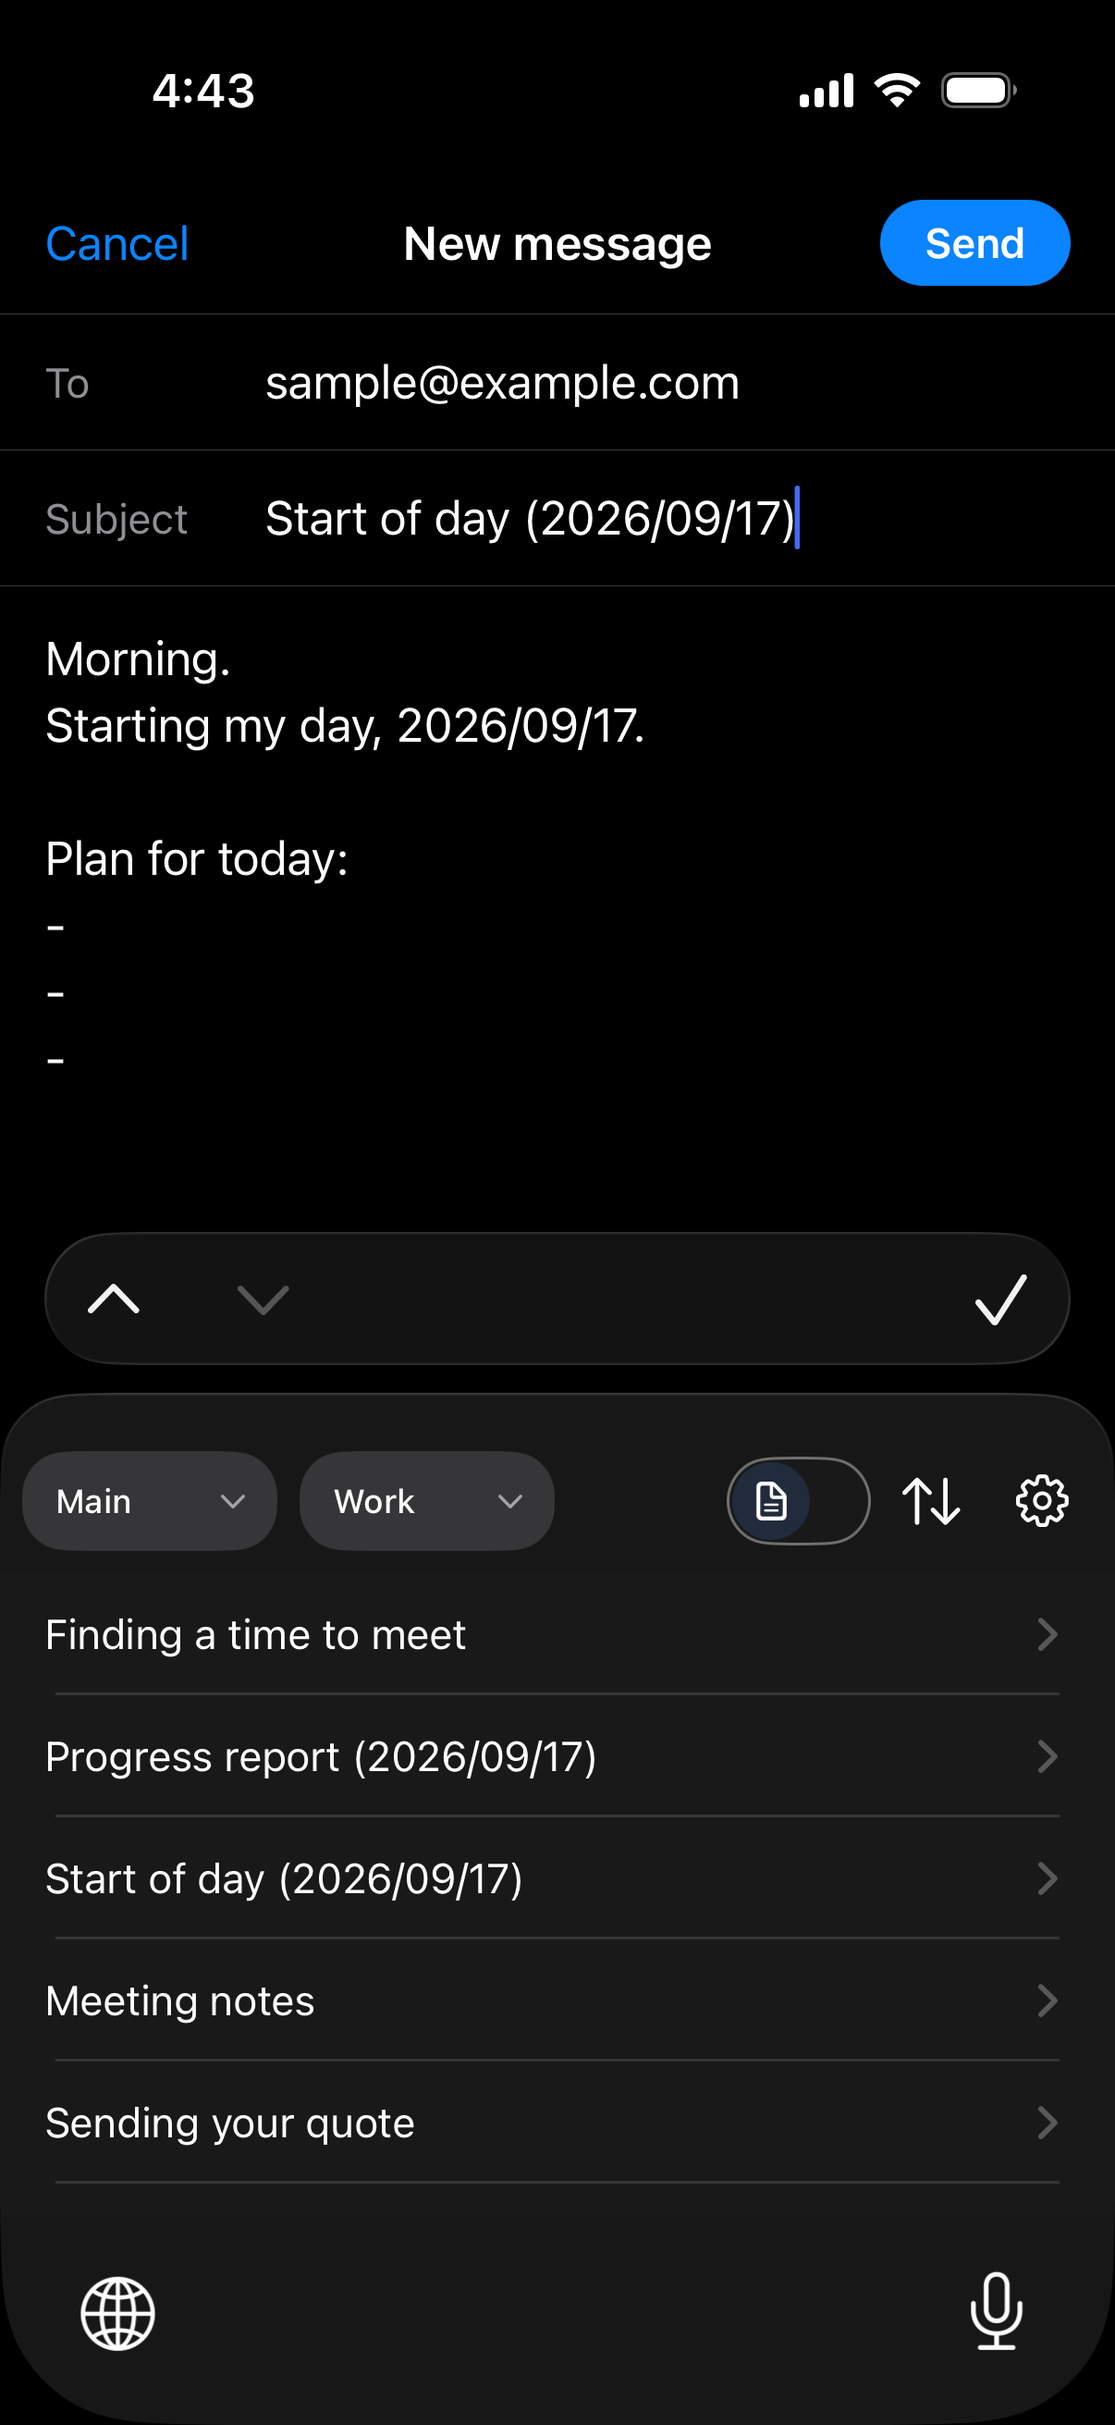
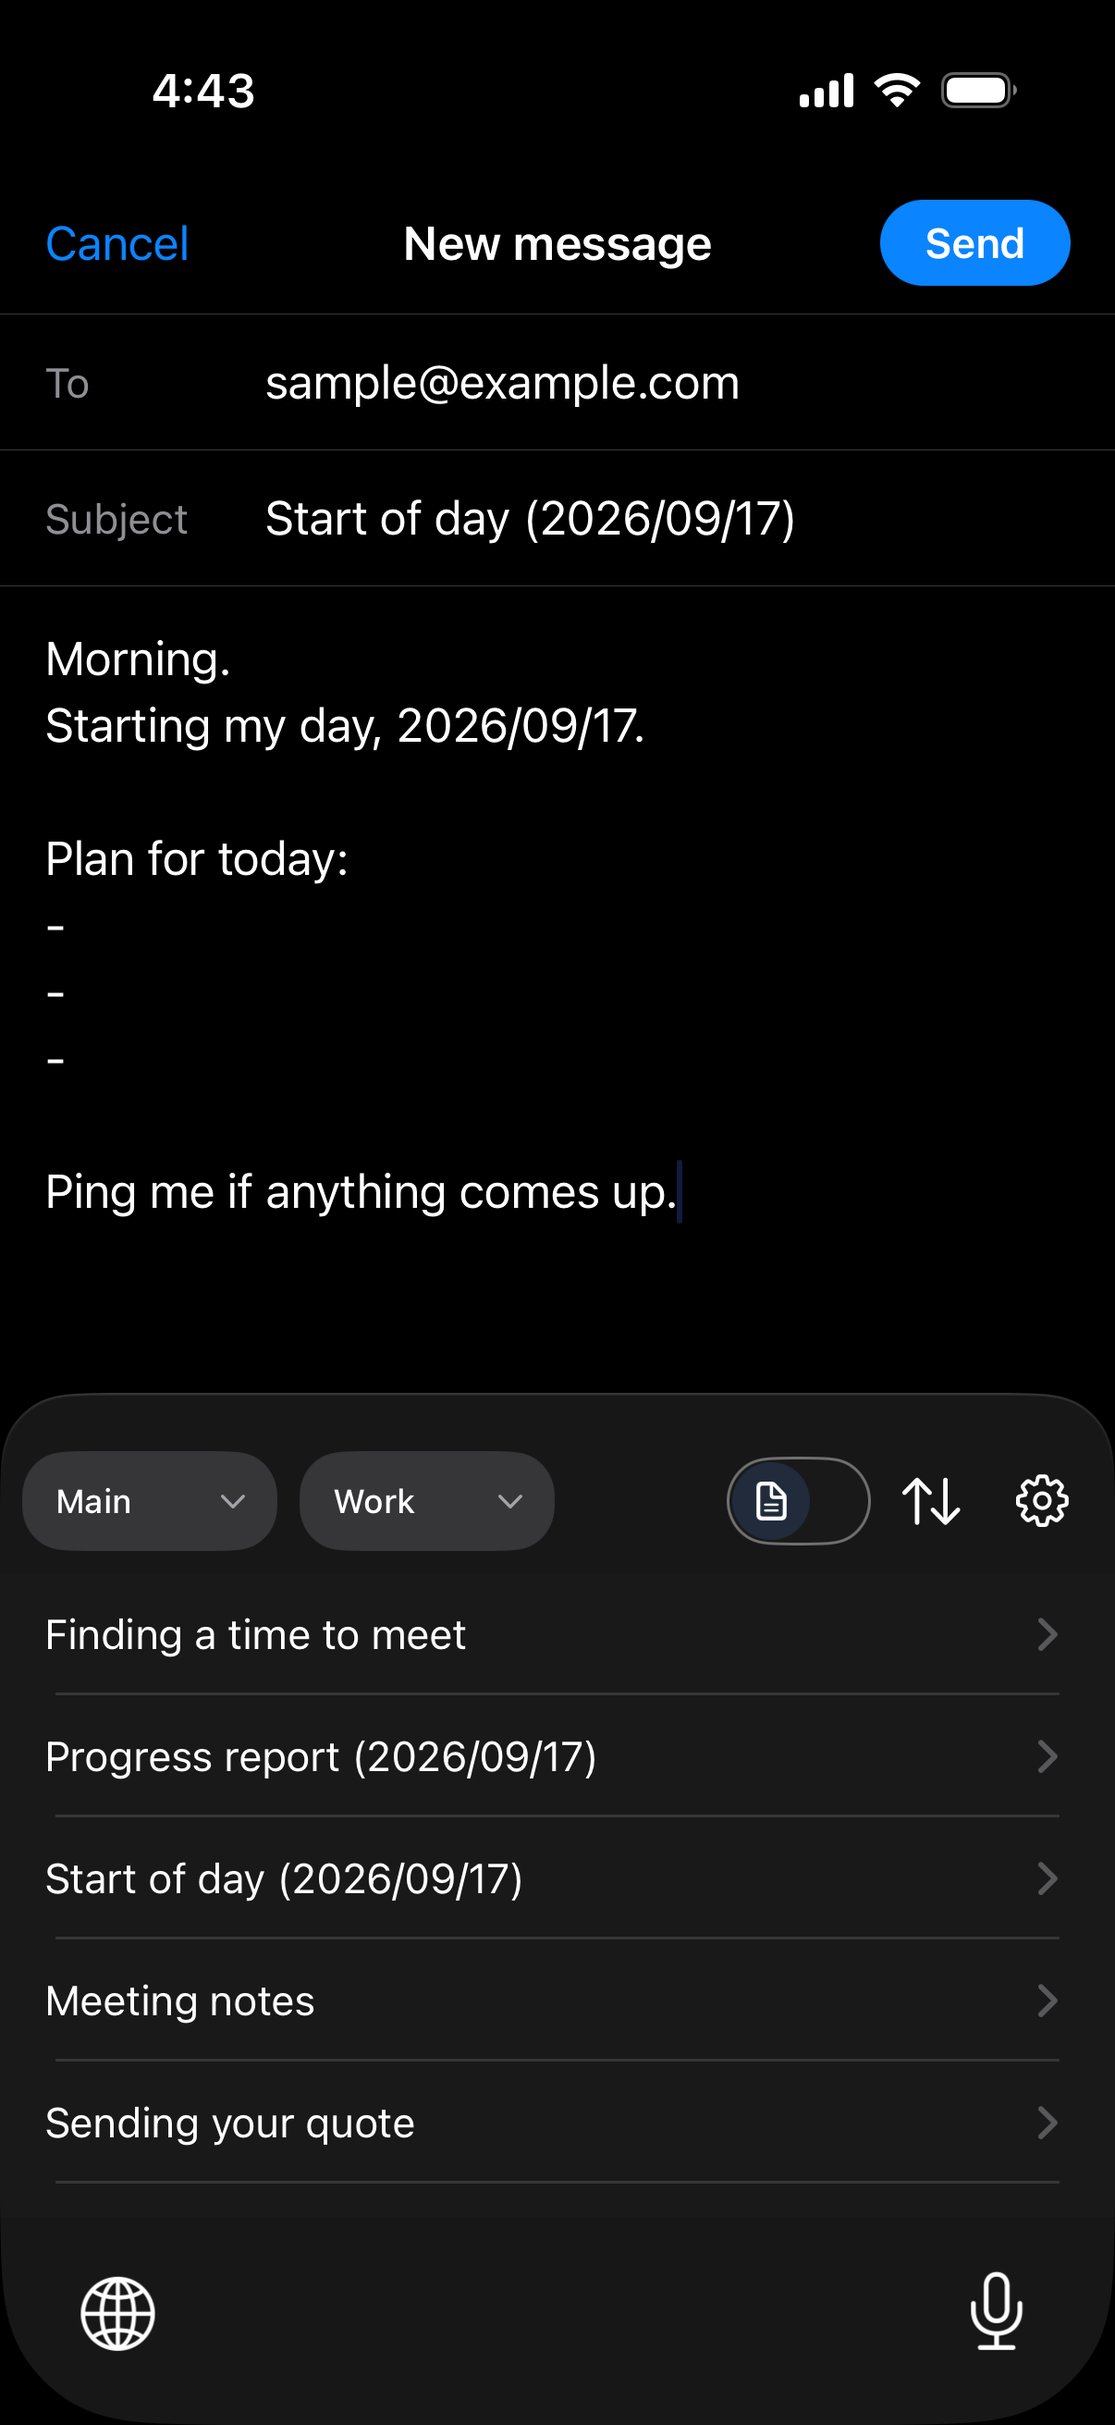
撮影用ホストをWebViewで開く開発者向け画面を足し、02-scenesを撮り直す
撮影用ホストをSafariで開くと、キーボードの上にフォーム用のアクセサリバー（∧ ∨ 完了）が
必ず出る。ページ側からは消せず、textarea を contenteditable に変えても出る（実測）。
ブラウザの部品が掲載画像に写り込んでいた。

WKWebViewを自前で持てば消せる。react-native-webview の hideKeyboardAccessoryView が
WKContentView の inputAccessoryView を差し替えるためで、同パッケージは既に依存にあり
（利用規約・プライバシーポリシー画面で使用中）、ネイティブの再ビルドも要らなかった。

- app/capture-host.tsx を追加。ヘッダーもインセットも出さずWebViewだけを全面に置く。
  ClipTapのUIが1pxでも写るとホストがClipTapだと分かり、掲載画像として使えないため。
  抜けるための透明な当たり判定を状態バーの帯に重ねてある
- 設定 > Developer Menu に Capture Host を追加（__DEV__ 配下）
- 本番バンドルからの除外はしない。seed.ts と違って大きなデータを抱えず、
  __DEV__ の外では何も描画せず、到達経路も開発者メニューだけのため
- i18nUsage.test.ts の許可リストへ capture-host.tsx を追加。DeveloperMenu.tsx と
  同じく開発者向けで、本番ビルドでは到達しない

02-scenes の6枚（メール・投稿・アシスタント × ja/en）をこの経路で撮り直し、
アクセサリバーの写り込みを無くした。メールは業務開始報告にしてある。

diff --git a/apps/mobile/app/capture-host.tsx b/apps/mobile/app/capture-host.tsx
@@ -1,0 +1,84 @@
+/**
+ * @module CaptureHostScreen
+ * @description 撮影用ホスト画面（開発モード限定）
+ *
+ * ストア掲載画像で「他のアプリの入力欄に ClipTap のキーボードから入力している」場面を撮るため、
+ * store/screen/host/ の無印の入力欄をWebViewで開くだけの画面。
+ *
+ * Safariで同じHTMLを開くとキーボードの上にフォーム用のアクセサリバー（∧ ∨ 完了）が必ず出る。
+ * あれはページ側からは消せないが、WKWebViewを自前で持てば `hideKeyboardAccessoryView` が
+ * WKContentView の inputAccessoryView を差し替えて消してくれる。それがこの画面の存在理由。
+ *
+ * 画面としての中身は無い。ヘッダーもインセットも出さず、WebViewだけを全面に置く。
+ * ClipTapのUIが1pxでも写るとホストがClipTapだと分かってしまい、掲載画像として使えないため。
+ *
+ * 本番バンドルからの除外はしていない。開発用シード（seed.ts）と違って
+ * 大きなデータを抱えず、__DEV__ の外では何も描画しないため。
+ * 到達経路も設定 > Developer Menu だけで、そこ自体が __DEV__ 配下にある。
+ *
+ * @see store/screen/host/README.md - ホストの方針と撮影手順
+ * @see src/components/settings/DeveloperMenu.tsx - この画面への入口
+ */
+
+import { StyleSheet, Pressable } from 'react-native';
+import { router } from 'expo-router';
+import { WebView } from 'react-native-webview';
+import { ScreenContainer } from '@components/common/ScreenContainer';
+
+/**
+ * 撮影用ホストの配信元
+ *
+ * `node store/screen/host/serve.mjs` で起こす。シミュレータはMacのネットワークを
+ * そのまま使うので localhost で届く（Info.plist の NSAllowsLocalNetworking が true）。
+ * 実機で撮るときはMacのLAN IPへ書き換える。
+ */
+const HOST_URL = 'http://localhost:4599/';
+
+export default function CaptureHostScreen() {
+  /* 開発モードでのみ使う画面。到達経路は Developer Menu だけだが、念のため何も描画しない */
+  if (!__DEV__) {
+    return null;
+  }
+
+  return (
+    /* ヘッダーを持たず、セーフエリアも確保しない。状態バーの下の余白はホスト側のCSSが持つ。
+       ScreenContainer は必ずヘッダーを描画するため、空の要素を渡して打ち消している */
+    <ScreenContainer customHeader={<></>} edges={[]}>
+      <WebView
+        source={{ uri: HOST_URL }}
+        style={styles.webview}
+        /* この画面の目的。キーボードの上に出るSafariのアクセサリバーを消す */
+        hideKeyboardAccessoryView={true}
+        javaScriptEnabled={true}
+        domStorageEnabled={true}
+        /* 撮り直しのたびに古い画面が出ると気付けない */
+        cacheEnabled={false}
+        /* 入力欄をタップした瞬間にキーボードを出す（既定はユーザー操作を要求する） */
+        keyboardDisplayRequiresUserAction={false}
+        /* 本文が伸びてもWebView側では弾ませない。構図が撮影のたびに変わるため */
+        bounces={false}
+      />
+      {/* 閉じるための透明な当たり判定。状態バーの帯に重ねてあるので撮影画像には写らない。
+          ヘッダーが無いぶん、ここが唯一の戻る手段になる */}
+      <Pressable
+        style={styles.exit}
+        onPress={() => router.back()}
+        accessibilityLabel="Close capture host"
+      />
+    </ScreenContainer>
+  );
+}
+
+const styles = StyleSheet.create({
+  webview: {
+    flex: 1,
+  },
+  /** 状態バーの帯に重ねる透明な閉じる領域 */
+  exit: {
+    position: 'absolute',
+    top: 0,
+    left: 0,
+    width: 88,
+    height: 54,
+  },
+});

diff --git a/apps/mobile/src/components/settings/DeveloperMenu.tsx b/apps/mobile/src/components/settings/DeveloperMenu.tsx
@@ -2,7 +2,7 @@
  * 開発者メニュー
  *
  * 開発モード（__DEV__）でのみ表示されるデバッグ機能メニュー。
- * サブスクリプション状態の上書き・広告の非表示・DBリセットの3機能を提供。
+ * サブスクリプション状態の上書き・広告の非表示・DBリセット・撮影用ホストの4機能を提供。
  *
  * 開発者専用メニューのため、表示文言は英語固定とし i18n キーを持たない。
  * app/settings/index.tsx の __DEV__ 判定配下でのみ描画されるため、
@@ -18,6 +18,7 @@ interface DeveloperMenuProps {
   onSubscriptionToggle: () => void;
   onAdsToggle: () => void;
   onResetDatabase: () => void;
+  onOpenCaptureHost: () => void;
 }
 
 interface MenuItemProps {
@@ -63,6 +64,7 @@ export function DeveloperMenu({
   onSubscriptionToggle,
   onAdsToggle,
   onResetDatabase,
+  onOpenCaptureHost,
 }: DeveloperMenuProps) {
   const { colors, responsiveFontSizes, responsiveLineHeights } = useTheme();
 
@@ -82,6 +84,14 @@ export function DeveloperMenu({
       title: 'Ads Override',
       description: 'Show or hide banner and App Open ads',
       onPress: onAdsToggle,
+    },
+    {
+      id: 'capture-host',
+      icon: 'camera-outline' as const,
+      iconColor: colors.text,
+      title: 'Capture Host',
+      description: 'Open the store screenshot host in a WebView',
+      onPress: onOpenCaptureHost,
     },
     {
       id: 'reset',

diff --git a/packages/shared/tests/i18nUsage.test.ts b/packages/shared/tests/i18nUsage.test.ts
@@ -131,12 +131,13 @@ const ALLOWED_LITERALS = new Set(['R', 'G', 'B', 'Pro', 'Free', 'ClipTap Web']);
  * 表示文言のハードコードを許可するファイル
  *
  * @remarks
- * - DeveloperMenu.tsx / useDevMenu.ts: `__DEV__` のときだけ描画される開発者向けメニュー。
- *   本番ビルドでは到達しないため利用者向け文言ではない
+ * - DeveloperMenu.tsx / useDevMenu.ts / capture-host.tsx: `__DEV__` のときだけ描画される
+ *   開発者向けの画面とメニュー。本番ビルドでは到達しないため利用者向け文言ではない
  * - MobileFileShareAdapter.ts: 共有シートのタイトルは docs/機能仕様書.md §8.13 により
  *   UI言語にかかわらず日本語固定と定められている
  */
 const ALLOWED_FILES = new Set([
+  'apps/mobile/app/capture-host.tsx',
   'apps/mobile/src/components/settings/DeveloperMenu.tsx',
   'apps/mobile/src/hooks/screens/useDevMenu.ts',
   'apps/mobile/src/adapters/MobileFileShareAdapter.ts',

diff --git a/apps/mobile/src/hooks/screens/useDevMenu.ts b/apps/mobile/src/hooks/screens/useDevMenu.ts
@@ -13,6 +13,7 @@
 
 import { useCallback } from 'react';
 import { Alert } from 'react-native';
+import { router } from 'expo-router';
 import { Logger, useSharedSubscription } from '@cliptap/shared';
 import { database } from '@database/database';
 import { showConfirm, showAlert, showErrorAlert } from '@utils/alerts';
@@ -27,6 +28,8 @@ export interface UseDevMenuReturn {
   handleDevAdsToggle: () => void;
   /** データベースリセット */
   handleResetDatabase: () => Promise<void>;
+  /** 撮影用ホストを開く */
+  handleOpenCaptureHost: () => void;
 }
 
 /**
@@ -129,9 +132,15 @@ export function useDevMenu(): UseDevMenuReturn {
     );
   }, []);
 
+  /* ストア掲載画像の撮影に使うホストを開く（app/capture-host.tsx を参照） */
+  const handleOpenCaptureHost = useCallback(() => {
+    router.push('/capture-host');
+  }, []);
+
   return {
     handleDevSubscriptionToggle,
     handleDevAdsToggle,
     handleResetDatabase,
+    handleOpenCaptureHost,
   };
 }

diff --git a/apps/mobile/app/settings/index.tsx b/apps/mobile/app/settings/index.tsx
@@ -61,6 +61,7 @@ export default function SettingsScreen() {
     handleDevSubscriptionToggle,
     handleDevAdsToggle,
     handleResetDatabase,
+    handleOpenCaptureHost,
   } = useSettingsScreen();
 
   /* 設定画面 */
@@ -128,6 +129,7 @@ export default function SettingsScreen() {
             onSubscriptionToggle={handleDevSubscriptionToggle}
             onAdsToggle={handleDevAdsToggle}
             onResetDatabase={handleResetDatabase}
+            onOpenCaptureHost={handleOpenCaptureHost}
           />
         )}
       </ScrollView>

diff --git a/store/screen/host/README.md b/store/screen/host/README.md
@@ -29,23 +29,38 @@ node store/screen/host/serve.mjs          # 既定 http://localhost:4599
 node store/screen/host/serve.mjs --port 5000
 ```
 
-シミュレータはMacのネットワークをそのまま使うので、シミュレータのSafariから
-`http://localhost:4599` がそのまま開く。
+シミュレータはMacのネットワークをそのまま使うので、`localhost` がそのまま届く
+（Info.plist の `NSAllowsLocalNetworking` が true）。
 
-1. Safariで開く
-2. 共有 → 「ホーム画面に追加」
-3. 追加されたアイコンから起動する（`apple-mobile-web-app-capable` によりURLバーが消え、
-   アプリとして見える状態になる）
-4. メニューから レイアウトを選ぶ。言語はメニュー右上で切り替える（localStorageに残る）
-5. 入力欄をタップ → 地球儀キーで ClipTap キーボードへ切り替え → 定型文を挿入して撮影
+**ClipTapアプリの 設定 > Developer Menu > Capture Host から開く。**
+これが唯一の推奨手順。撮影はこの経路でだけ行う。
 
-**必ずメニューからレイアウトを選び直すこと。** スタンドアロンのWebアプリは起動し直しても
-前回のDOMをそのまま復元するため、入力欄の画面から再開すると前回の本文が残ったまま重ねて挿入される。
-入力欄の画面から復帰したときは自動でメニューへ戻すようにしてあるが、手順としても守る。
+1. `serve.mjs` を起こす
+2. アプリで 設定 > Developer Menu > Capture Host
+3. メニューからレイアウトを選ぶ。言語はメニュー右上で切り替える（localStorageに残る）
+4. 入力欄をタップ → 地球儀キーで ClipTap キーボードへ切り替え → 定型文を挿入して撮影
+5. 抜けるときは状態バーの左端をタップする（透明な閉じる領域を置いてある）
+
+### Safariで開いてはいけない理由
+
+同じURLをSafariで開くと、キーボードの上にフォーム用のアクセサリバー（∧ ∨ 完了）が必ず出る。
+ページ側からは消せず、`textarea` を `contenteditable` に変えても出る（実測）。
+掲載画像にブラウザの部品が写り込むため使えない。
+
+WebViewなら `hideKeyboardAccessoryView` が WKContentView の `inputAccessoryView` を
+差し替えて消してくれる。`app/capture-host.tsx` はそのためだけの画面。
+レイアウトの確認だけならSafariでもよいが、撮影には使わない。
+
+### 撮影時の決まりごと
+
+**必ずメニューからレイアウトを選び直すこと。** WebViewは前回のDOMを復元するため、
+入力欄の画面から再開すると前回の本文が残ったまま重ねて挿入される。
+入力欄から復帰したときは自動でメニューへ戻すようにしてあるが、手順としても守る。
 
 目的の定型文が一覧の下のほうにあるときは、キーボードのカテゴリで絞る。
 ただし英語の「Social media」はチップ幅に収まらず「So…edia」と省略されるので、英語面は絞らず「All」から選ぶ。
 メールの件名は、プレビュー右上のボタン（タイトルだけを挿入）で入れる。
+件名を先に入れてから本文を入れる。逆順にすると本文へフォーカスが残り、タイトルまで本文へ入る。
 
 ## レイアウト
 

diff --git a/docs/MARKETING_STRATEGY.md b/docs/MARKETING_STRATEGY.md
@@ -159,7 +159,8 @@ ClipTapが取りに行くべき語の仮説：
 他アプリへの挿入面は2通りある。
 
 - **メッセージApp**（`01-hero-right-insert` / `05-shortcuts-right-keyboard`）— iOS標準アプリをそのままホストにする
-- **撮影用ホスト**（`02-scene-*`）— `store/screen/host/` の無印の入力欄をホーム画面へ追加して使う。
+- **撮影用ホスト**（`02-scene-*`）— `store/screen/host/` の無印の入力欄を、アプリの
+  設定 > Developer Menu > Capture Host（WebView）で開いて使う。
   リードが言う「SNS」「メール」「AIとの対話」の場面が要るが、該当するアプリがシミュレータに無いため。
   実在するサービスに似せない方針と理由は `store/screen/host/README.md` を正とする
 
@@ -196,15 +197,14 @@ node ~/.claude/skills/html-to-png/scripts/html_to_png.js store/screen/jobs.json
 4. アプリはプロファイル「A社用」（en は Client A）に切り替えてから撮る
 5. キーボード面を撮る。**DBを wipe したあとは必ずシミュレータごと再起動する**。拡張キーボードは消えたDBを掴んだままになり、「No snippets available」と出たまま直らない
    - メッセージAppの面は、ホーム画面から起動して「◀ ClipTap」の戻り表示が出ないようにする
-   - 撮影用ホストの面は `node store/screen/host/serve.mjs` を起こし、ホーム画面のアイコンから開く。
+   - 撮影用ホストの面は `node store/screen/host/serve.mjs` を起こし、
+     **設定 > Developer Menu > Capture Host** から開く（Safariで開くとアクセサリバーが写り込む）。
      **必ずメニューからレイアウトを選び直す**（入力欄の画面はDOMごと復元されるため、前回の本文が残る）
    - 定型文はキーボードのカテゴリで絞ると目的のものが上位に来る。en の「Social media」はチップ幅に収まらず
      「So…edia」と省略されるので、英語面は絞らず「All」から選ぶ
 6. 撮ったPNGを `apps/web/public/image/<name>-<lang>.png` へ置き、`build.mjs` → `html_to_png.js` を回す
 
 **残っている改善余地**
-- 撮影用ホストはWebのため、キーボードの上にSafariのフォーム用アクセサリバー（∧ ∨ ✓）が必ず出る。
-  ページ側からは消せない（`contenteditable` にしても出る）。無くすなら撮影用のネイティブアプリが要る。
 - iPad面7枚はiPhoneのフレーム合成で、iPadの画面が1枚も入っていない（`_shared.css` に `.phone` が1種類しか無い）。
 - 可能なら1枚目を**App Preview動画**化（キーボードで挿入する3秒の動き）。動きは静止画より伝わる。
 - Google Play 用（1080×1920、縦横比9:16が上限）とフィーチャーグラフィック（1024×500）は未対応。`_shared.css` に canvas 定義を1ブロック足せば同じソースから出力できる。
